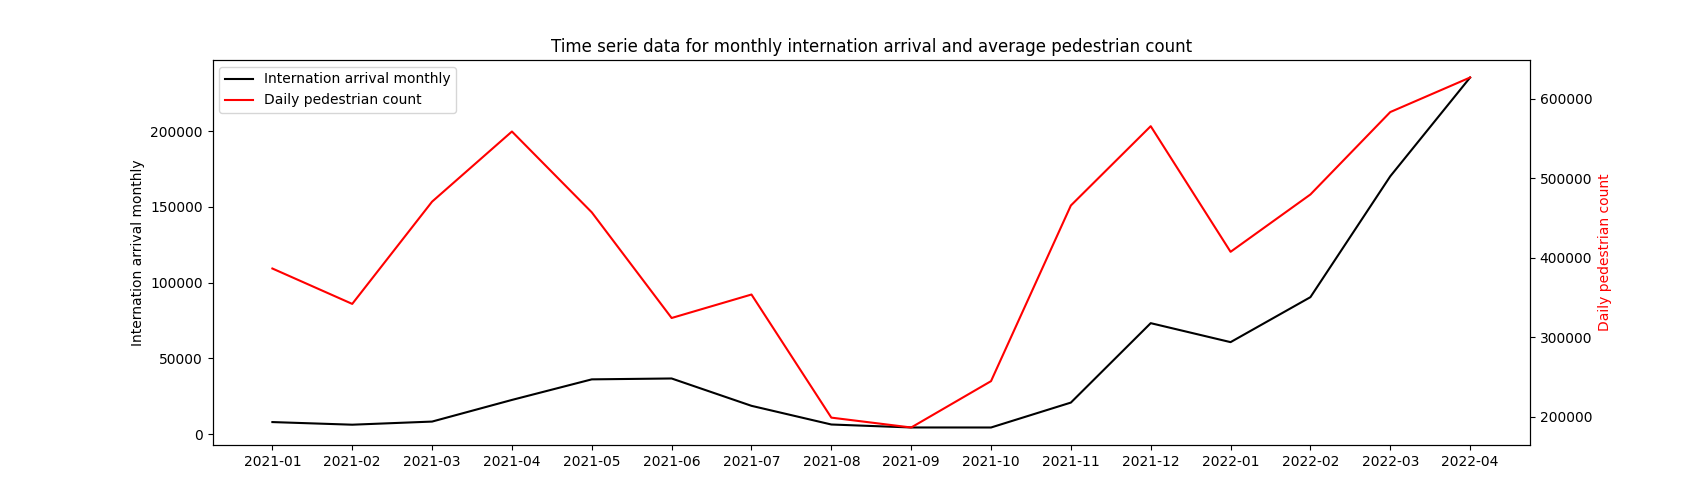
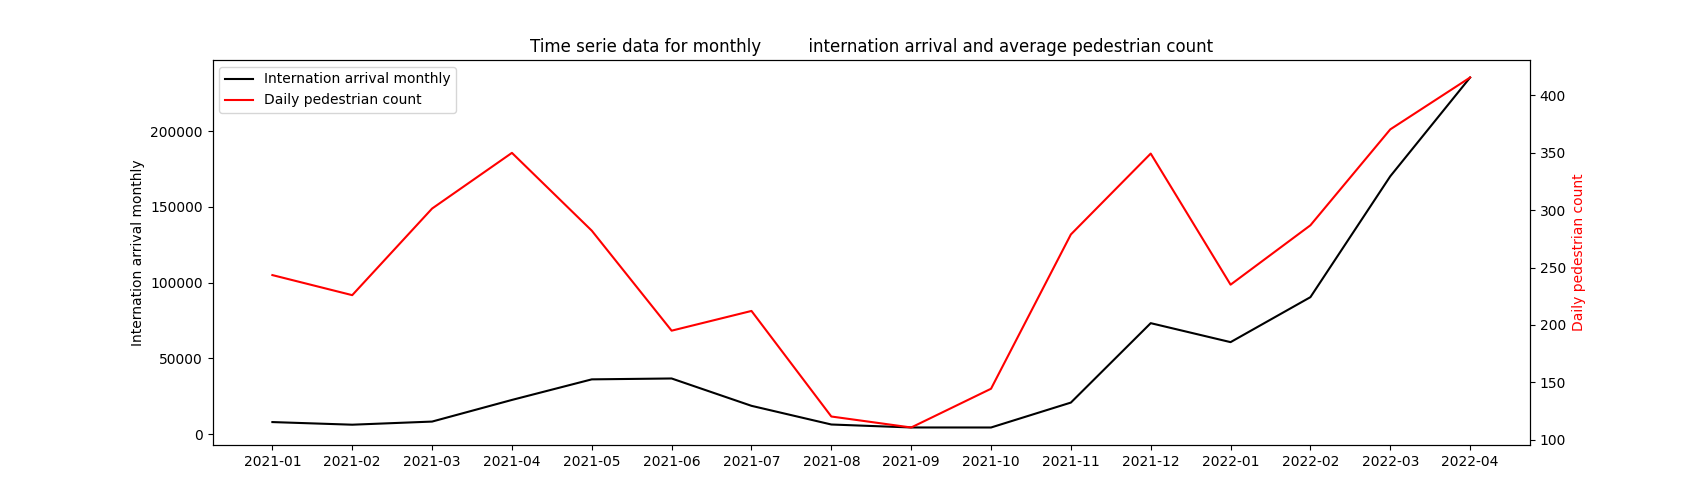
Push q15 changes

diff --git a/solution.py b/solution.py
@@ -572,28 +572,20 @@ def sensor_correlation(dataframe, sensor1, sensor2):
         'Pearson correlation coefficient')
 
 
-def join_covid_travel(dataframe, file1, file2):
+def join_travel(dataframe, file):
     """
     Function that joins the three dataframe together.
-    df is the original pedestrian data frame,
-    file1 is the covid-19 cases data,
-    file2 is the international traveller data.
+    df is the original pedestrian data frame, file is the international
+    traveller data.
     Returns a joint dataframe.
     """
-
     # create temp df
     df_temp = dataframe
     df_temp['Date_Time'] = pd.to_datetime(
         df_temp['Date_Time']).dt.strftime('%Y-%m-%d')
 
-    # read the covid data file
-    covid_df = pd.read_csv(file1)
-    covid_df = covid_df[['Date', 'VIC']]
-    covid_df['Date'] = pd.to_datetime(
-        covid_df['Date']).dt.strftime('%Y-%m-%d')
-
     # read the international arrival data file
-    travel_df = pd.DataFrame(pd.read_excel(file2, 'Data1'))[[
+    travel_df = pd.DataFrame(pd.read_excel(file, 'Data1'))[[
         'Unnamed: 0',
         'Number of movements ;  Short-term Visitors arriving ;']]
     travel_df.rename(columns={
@@ -604,16 +596,10 @@ def join_covid_travel(dataframe, file1, file2):
         travel_df['Date_Time']).dt.strftime('%Y-%m')
 
     # join covid to pedestrian data frame
-    covid_pedestrian_df = pd.merge(
-        left=df_temp, right=covid_df,
-        left_on='Date_Time', right_on='Date')
-    covid_pedestrian_df = covid_pedestrian_df \
-        .groupby(covid_pedestrian_df.Date_Time, as_index=False) \
-        .agg({'Hourly_Counts': 'sum', 'VIC': 'mean'})
     monthly_overall = pd.DataFrame(
-        covid_pedestrian_df.groupby(pd.to_datetime(
-            covid_pedestrian_df.Date_Time).dt.strftime('%Y-%m'))
-        .agg({'Hourly_Counts': 'mean', 'VIC': 'mean'}))
+        df_temp.groupby(pd.to_datetime(
+            df_temp.Date_Time).dt.strftime('%Y-%m'))
+        .agg({'Hourly_Counts': 'mean'}))
 
     # join travel to pedestrian data frame
     monthly_overall = pd.merge(
@@ -623,36 +609,69 @@ def join_covid_travel(dataframe, file1, file2):
     return monthly_overall
 
 
-def invest_covid_travel(dataframe, file1, file2):
+def join_activecases_ped(dataframe, file):
     """
-    Investigate relationship between pedestrian count
-    and covid-19 confirm cases and international travel restriction.
-    Take pedestrian dataframe df, covid data file1, arrival data file2,
-    plot and save the time series comparison plots.
+    Function that takes the original pedestrian dataframe and joins it with the active covid cases dataframe
+    """
+
+    # create tempoary funciton df to assist in joining the two dataframes
+    df_temp = dataframe
+    df_temp['Date_Time'] = pd.to_datetime(df_temp['Date_Time']).dt.strftime('%Y-%m-%d')
+    df_temp['Date_Time'] = df_temp['Date_Time'].astype('datetime64[ns]')
+
+    # read the covid data file and perfrom data cleaning so the covid cases column is in numeric and the same date range as pedestrian dataframe
+    covid_active = pd.read_csv(file)
+    covid_active.columns = ['Date_Time', 'All active cases']
+    covid_active['All active cases'] = covid_active['All active cases'].str.replace(',', '').astype(float)
+    time = covid_active['Date_Time'].str.len()>5
+    covid_active = covid_active.loc[time]
+    covid_active['Date_Time'] = pd.to_datetime(covid_active['Date_Time'],dayfirst=True)
+    covid_active = covid_active[(covid_active['Date_Time'] >= '2021-01-01') & (covid_active['Date_Time'] <= '2022-05-31')]
+    covid_active.reset_index(inplace=True)
+    covid_active = covid_active[['Date_Time', 'All active cases']]
+    covid_active['Date_Time'] = covid_active['Date_Time'].astype('datetime64[ns]')
+
+    # join covid_active dataframe to the pedestrain data frame
+    covid_pedestrain_df = pd.merge(df_temp, covid_active, left_on='Date_Time', right_on='Date_Time')
+    covid_pedestrain_df = covid_pedestrain_df.groupby(covid_pedestrain_df.Date_Time, as_index = True).agg({'Hourly_Counts':'sum', 'All active cases':'mean'})
+    
+    # since the data fluctuates a lot, we apply a 7 days rolling average to smooth out the data
+    covid_pedestrain_df['All active cases_smoothed'] = covid_pedestrain_df['All active cases'].rolling(window = 7).mean()
+    covid_pedestrain_df['Hourly_Counts_smoothed'] = covid_pedestrain_df['Hourly_Counts'].rolling(window = 7).mean()
+    covid_pedestrain_df.reset_index(inplace = True)
+
+    return covid_pedestrain_df
+
+
+def invest_activecases_ped(dataframe, file):
+    """
+    Investigate relationship between pedestrain count and active covid cases
+    Take pedestrain dataframe df, active covid cases file, plot a time series and save the time series comparison plots.
     """
     # join dataframe
-    monthly_overall = join_covid_travel(dataframe, file1, file2)
+    covid_pedestrain_df = join_activecases_ped(dataframe, file)
+
+    # plot and save arrival vs pedestrain
+    time_series_for_two(covid_pedestrain_df[pd.to_datetime(covid_pedestrain_df.Date_Time) < '2021-08-01'], "All active cases_smoothed", "Hourly_Counts_smoothed", 'Daily active covid-19 cases', 'Daily pedestrain count', "Time serie data for daily active covid-19 cases and daily pedestrain count before August 2021", '1')
+    time_series_for_two(covid_pedestrain_df[pd.to_datetime(covid_pedestrain_df.Date_Time) >= '2021-08-01'], "All active cases_smoothed", "Hourly_Counts_smoothed", 'Daily active covid-19 cases', 'Daily pedestrain count', "Time serie data for daily active covid-19 cases and daily pedestrain count after August 2021", '2')
+
+
+def invest_travel(dataframe, file):
+    """
+    Investigate relationship between pedestrian count
+    and international travel restriction.
+    Take pedestrian dataframe,  arrival data file, plot and save the
+    time series comparison plots.
+    """
+    # join dataframe
+    monthly_overall = join_travel(dataframe, file)
 
     # plot and save arrival vs pedestrian
     time_series_for_two(
         monthly_overall, "Arrival", "Hourly_Counts",
         'Internation arrival monthly', 'Daily pedestrian count',
-        "Time serie data for monthly " + \
-        "internation arrival and average pedestrian count")
-
-    # plot and save covid-19 vs pedestrian
-    time_series_for_two(monthly_overall[
-        pd.to_datetime(monthly_overall.Date_Time) < '2021-09-01'],
-        "VIC", "Hourly_Counts", 'Average daily covid-19 cases',
-        'Average daily pedestrian count',
-        "Time serie data for monthly covid-19 cases and " + \
-        "average pedestrian count before September 2021", '1')
-    time_series_for_two(monthly_overall[
-        pd.to_datetime(monthly_overall.Date_Time) >= '2021-09-01'],
-        "VIC", "Hourly_Counts", 'Average daily covid-19 cases',
-        'Average daily pedestrian count',
-        "Time serie data for monthly covid-19 cases and " + \
-        "average pedestrian count before September 2021", '2')
+        "Time serie data for monthly \
+        internation arrival and average pedestrian count")
 
 
 def invest_lockdown(dataframe):
@@ -725,7 +744,11 @@ def invest_lockdown(dataframe):
 
     df_time_series.plot(
         x="Date_Time", y="Hourly_Counts",
-        title="Covid-19 cases versus pedestrian " + \
-        "(Red = Victoria under lockdown)", figsize=(12, 5))
+        title="Covid-19 cases versus pedestrian \
+        (Red = Victoria under lockdown)", figsize=(12, 5))
+    plt.axvspan('2021-02-12','2021-02-17', facecolor='r', alpha=0.3)
+    plt.axvspan('2021-05-27','2021-06-10', facecolor='r', alpha=0.3)
+    plt.axvspan('2021-07-15','2021-07-20', facecolor='r', alpha=0.3)
+    plt.axvspan('2021-08-05','2021-10-21', facecolor='r', alpha=0.3)
 
     plt.savefig("lockdown_impace_time_series.png", bbox_inches='tight')

diff --git a/main.py b/main.py
@@ -7,14 +7,14 @@ from solution import data_cleansing, pedestrian_stats, pedestrian_scatter, \
     pedestrian_hist, sensor_hist, pedestrian_hist_rain, \
     pedestrian_hist_rain_temp, \
     time_series_sensor, model_for_count, unusual_day, daily_difference, \
-    sensor_correlation, invest_covid_travel, invest_lockdown
+    sensor_correlation, invest_travel, invest_lockdown, invest_activecases_ped
 
 # files for reading, change the route name or file name if necessary
 COUNT_FILE = "count2021-2022.csv"
 RAIN_FILE = "rainfall-all-years/IDCJAC0009_086338_1800_Data.csv"
 TEMP_FILE = "temperature-all-years/IDCJAC0010_086338_1800_Data.csv"
 SOLAR_FILE = "solar-all-years/IDCJAC0016_086338_1800_Data.csv"
-COVID_FILE = "cases_daily_state.csv"
+COVID_FILE = "All time (all active).csv"
 TRAVEL_FILE = "340101.xlsx"
 
 #  data cleansing part
@@ -78,7 +78,8 @@ sensor_correlation(df, 3, 9)
 print('Output of question 13: ')
 
 # answer for question 15
-invest_covid_travel(df, COVID_FILE, TRAVEL_FILE)
+invest_travel(df, TRAVEL_FILE)
+invest_activecases_ped(df, COVID_FILE)
 invest_lockdown(df)
 print('Output of question 15: ')
 print('Plot of question 15 saved')
